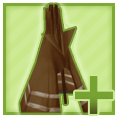
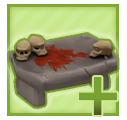
Commit Shrine change + Attack Scene

diff --git a/XNA_ENGINE/Game/Objects/Menu.cs b/XNA_ENGINE/Game/Objects/Menu.cs
@@ -208,6 +208,15 @@ namespace XNA_ENGINE.Game.Objects
         private bool m_bDrawMenu;
         private bool m_bLayoutSwitch;
 
+        // ATTACKING INFO
+        private bool m_bAttackingScene;
+
+        private Texture2D m_TexBackgroundVictory,
+                          m_TexBackgroundDefeat;
+
+        private Rectangle m_RectBackgroundVictory,
+                          m_RectBackgroundDefeat;
+
         //Singleton implementation
         static public Menu GetInstance()
         {
@@ -238,6 +247,8 @@ namespace XNA_ENGINE.Game.Objects
             m_bShowControllerLayout = true;
             m_bShowKeyboardLayout = false;
             m_bLayoutSwitch = true;
+
+            m_bAttackingScene = false;
 
             // MENU ONDERKANT BACKGROUND
             m_TexMenuBackground = Content.Load<Texture2D>("final Menu/grootMenu_Onderkant");
@@ -335,6 +346,10 @@ namespace XNA_ENGINE.Game.Objects
             m_TexButtonReturnHovered = Content.Load<Texture2D>("ControllerMenu/Controller_ReturnButtonHovered");
             m_TexButtonControllerSwitch = Content.Load<Texture2D>("ControllerMenu/Controller_xboxControllerButton");
             m_TexButtonKeyboardSwitch = Content.Load<Texture2D>("ControllerMenu/Controller_MouseAndKeyboardButton");
+
+            // ATTAKING
+            m_TexBackgroundVictory = Content.Load<Texture2D>("VictoryScreen");
+            m_TexBackgroundDefeat = Content.Load<Texture2D>("DefeatScreen");
 
             // FONT
             m_DebugFont = Content.Load<SpriteFont>("Fonts/DebugFont");
@@ -626,6 +641,14 @@ namespace XNA_ENGINE.Game.Objects
 
             m_bLayoutSwitch = true;
 
+            if (m_bAttackingScene)
+            {
+                if (inputManager.GetAction((int)PlayScene.PlayerInput.LeftClick).IsTriggered && CheckHitButton(mousePos, m_RectBackgroundVictory))
+                {
+                    m_bAttackingScene = false;
+                }
+            }
+
 
             return false;
         }
@@ -748,6 +771,10 @@ namespace XNA_ENGINE.Game.Objects
                 m_RectButtonReturn = new Rectangle(vpWidth / 2 - 300, 450, m_TexButtonReturn.Width / 2, m_TexButtonReturn.Height / 2);
                 m_RectButtonControllerSwitch = new Rectangle(vpWidth / 2 - m_TexButtonControllerSwitch.Width / 4, 70, m_TexButtonControllerSwitch.Width / 2, m_TexButtonControllerSwitch.Height / 2);
                 m_RectButtonKeyboardSwitch = new Rectangle(vpWidth / 2 - m_TexButtonKeyboardSwitch.Width / 4, 70, m_TexButtonKeyboardSwitch.Width / 2, m_TexButtonKeyboardSwitch.Height / 2);
+
+                // ATTACKER
+                m_RectBackgroundVictory = new Rectangle(vpWidth / 2 - m_TexBackgroundVictory.Width / 4, 0, m_TexBackgroundVictory.Width / 2, m_TexBackgroundVictory.Height / 2);
+                m_RectBackgroundDefeat  = new Rectangle(vpWidth / 2 - m_TexBackgroundDefeat.Width / 4, 0, m_TexBackgroundDefeat.Width / 2, m_TexBackgroundDefeat.Height / 2);
             }
                 // ------------------------------------------
                 // FULLSCREEN
@@ -802,6 +829,10 @@ namespace XNA_ENGINE.Game.Objects
                 m_RectButtonReturn              = new Rectangle(vpWidth / 2 - 600, 900, m_TexButtonReturn.Width, m_TexButtonReturn.Height);
                 m_RectButtonControllerSwitch    = new Rectangle(vpWidth / 2 - m_TexButtonControllerSwitch.Width / 2, 160, m_TexButtonControllerSwitch.Width, m_TexButtonControllerSwitch.Height);
                 m_RectButtonKeyboardSwitch      = new Rectangle(vpWidth / 2 - m_TexButtonKeyboardSwitch.Width / 2, 160, m_TexButtonKeyboardSwitch.Width, m_TexButtonKeyboardSwitch.Height);
+
+                // ATTACKER
+                m_RectBackgroundVictory = new Rectangle(vpWidth / 2 - m_TexBackgroundVictory.Width / 2, 0, m_TexBackgroundVictory.Width, m_TexBackgroundVictory.Height);
+                m_RectBackgroundDefeat  = new Rectangle(vpWidth / 2 - m_TexBackgroundDefeat.Width / 2, 0, m_TexBackgroundDefeat.Width, m_TexBackgroundDefeat.Height);
             }
 
             // MENU ONDERKANT DRAW
@@ -1048,6 +1079,43 @@ namespace XNA_ENGINE.Game.Objects
                     spriteBatch.Draw(m_TexButtonReturnHovered, m_RectButtonReturn, Color.White);
                 else spriteBatch.Draw(m_TexButtonReturn, m_RectButtonReturn, Color.White);
             }
+
+            // SHOW ATTACKER SCENE
+            if (m_bAttackingScene)
+            {
+                AttackScene tempScene = null;
+
+                for (int t = 0; t < SceneManager.GameScenes.Count; ++t)
+                {
+                    if (SceneManager.GameScenes.ElementAt(t).SceneName == "AttackScene")
+                    {
+                        tempScene = (AttackScene)SceneManager.GameScenes.ElementAt(t);
+                        break;
+                    }
+                }
+
+                // DRAW INFORMATION
+                if (tempScene != null)
+                {
+                    if (tempScene.GetWinner() == "Attacker")
+                        spriteBatch.Draw(m_TexBackgroundVictory, m_RectBackgroundVictory, Color.White);
+                    else
+                        spriteBatch.Draw(m_TexBackgroundDefeat, m_RectBackgroundDefeat, Color.White);
+
+                    if (vpWidth < renderContext.GraphicsDevice.Adapter.CurrentDisplayMode.Width)
+                    {
+                        spriteBatch.DrawString(m_DebugFont, "" + tempScene.GetAttackerArmySize(), new Vector2(vpWidth / 2 + 100, 140), Color.Black);
+                        spriteBatch.DrawString(m_DebugFont, "" + tempScene.GetDefenderArmySize(), new Vector2(vpWidth / 2 + 100, 180), Color.Black);
+                        spriteBatch.DrawString(m_DebugFont, "" + tempScene.GetHighestDieThrown(), new Vector2(vpWidth / 2 + 100, 220), Color.Black);
+                    }
+                    else if (vpWidth == renderContext.GraphicsDevice.Adapter.CurrentDisplayMode.Width)
+                    {
+                        spriteBatch.DrawString(m_DebugFont, "" + tempScene.GetAttackerArmySize(), new Vector2(vpWidth / 2 + 200, 280), Color.Black);
+                        spriteBatch.DrawString(m_DebugFont, "" + tempScene.GetDefenderArmySize(), new Vector2(vpWidth / 2 + 200, 360), Color.Black);
+                        spriteBatch.DrawString(m_DebugFont, "" + tempScene.GetHighestDieThrown(), new Vector2(vpWidth / 2 + 200, 440), Color.Black);
+                    }
+                }
+            }
         }
 
         public void ToggleIngameMenu()
@@ -1106,6 +1174,11 @@ namespace XNA_ENGINE.Game.Objects
         public bool GetShowInGameMenu()
         {
             return m_bDrawMenu;
+        }
+
+        public void SetAttackingScene()
+        {
+            m_bAttackingScene = true;
         }
     }
 }

diff --git a/XNA_ENGINE/Game/Scenes/AttackScene.cs b/XNA_ENGINE/Game/Scenes/AttackScene.cs
@@ -198,5 +198,33 @@ namespace XNA_ENGINE.Game.Scenes
                 return m_Defender;
             }
         }
+
+        public int GetAttackerDice()
+        {
+            return m_AttackersDice;
+        }
+
+        public int GetDefenderDice()
+        {
+            return m_DefendersDice;
+        }
+
+        public int GetHighestDieThrown()
+        {
+            if (m_AttackerWon)
+                return m_AttackersDice;
+            else
+                return m_DefendersDice;
+        }
+
+        public int GetAttackerArmySize()
+        {
+            return m_Attacker.ArmySize;
+        }
+
+        public int GetDefenderArmySize()
+        {
+            return m_Defender.ArmySize;
+        }
     }
 }

diff --git a/XNA_ENGINE/Game/Objects/Army.cs b/XNA_ENGINE/Game/Objects/Army.cs
@@ -123,7 +123,7 @@ namespace XNA_ENGINE.Game.Objects
                 if (boundArmy != null)
                 {
                     SceneManager.AddGameScene(new AttackScene(PlayScene.GetContentManager(), this, boundArmy));
-                    SceneManager.SetActiveScene("AttackScene");
+                    Menu.GetInstance().SetAttackingScene();
                 }
             }
 
